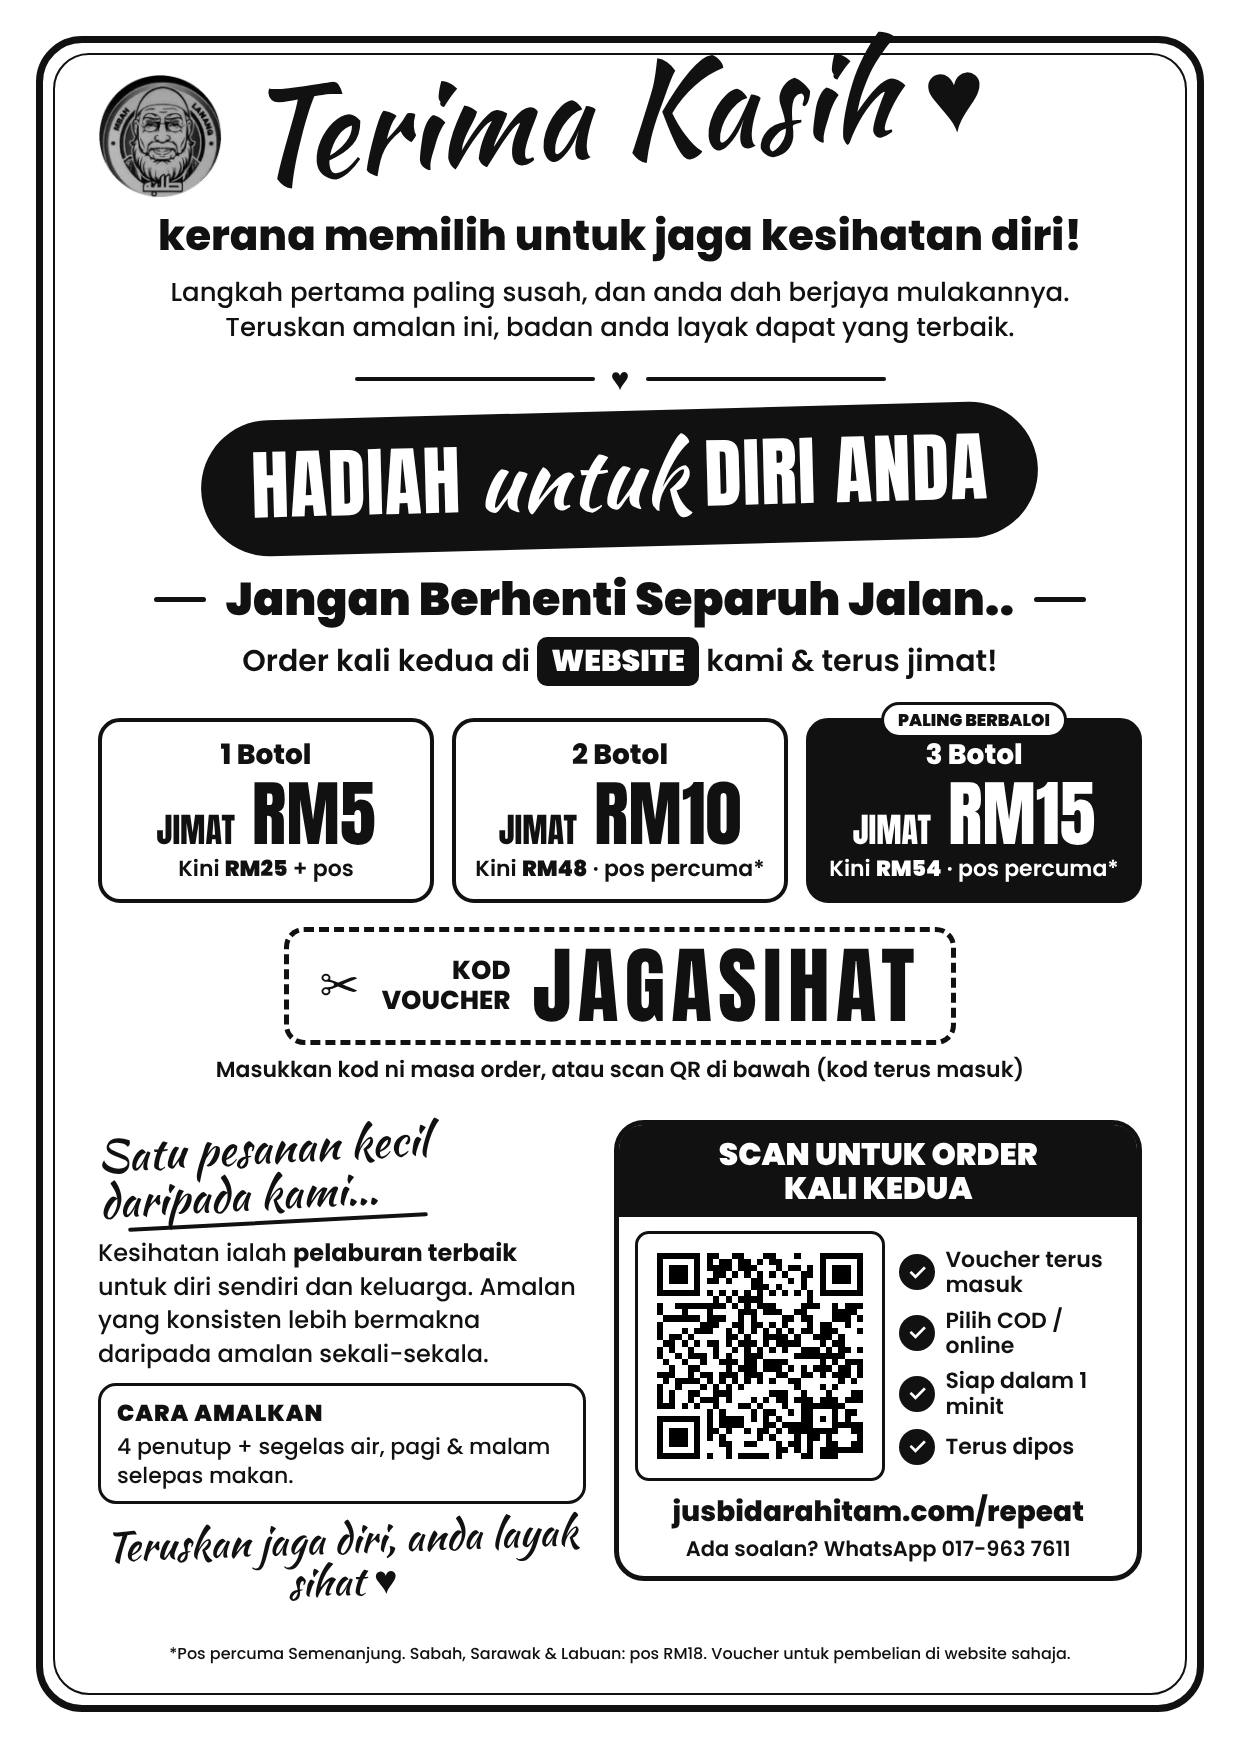
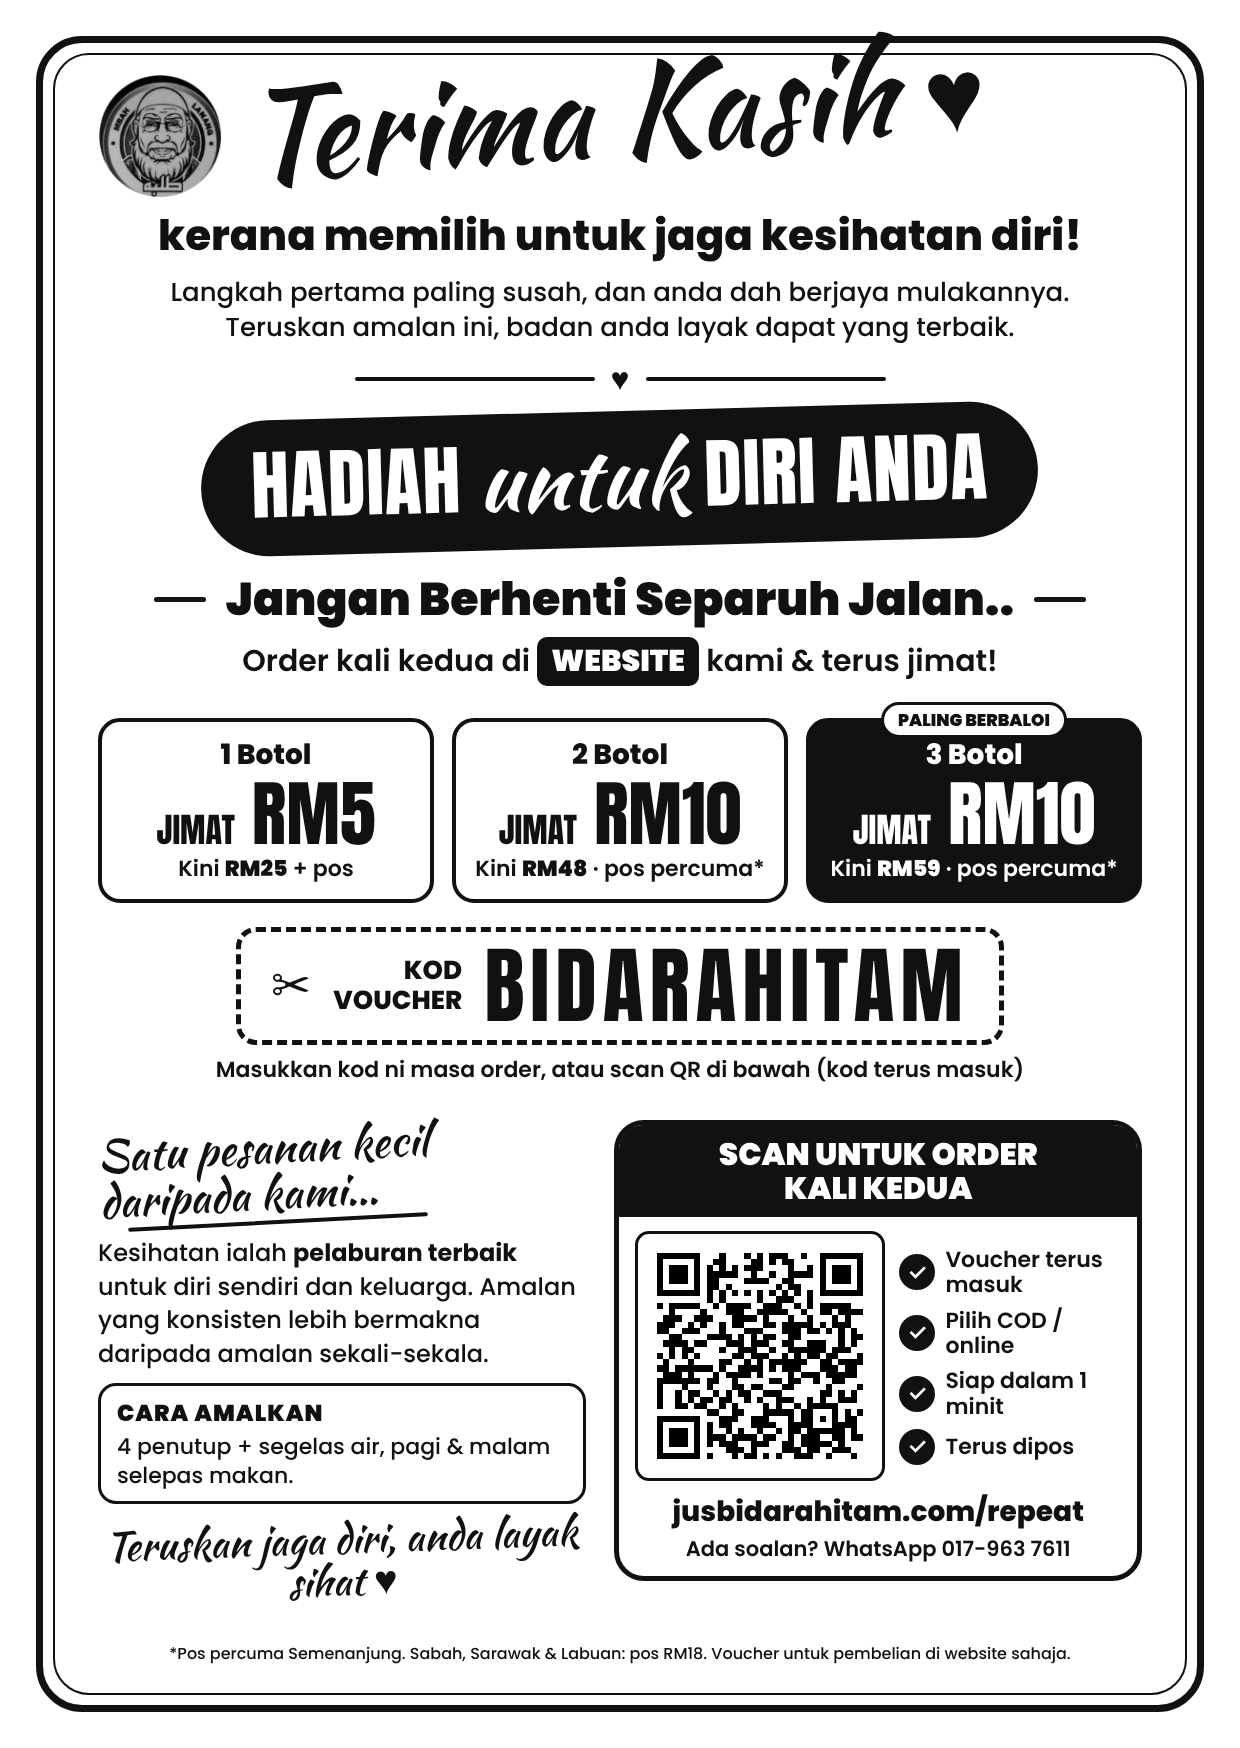
Voucher code BIDARAHITAM; 3-bottle discount RM10 (same as 2 bottles); flyer updated
Claude-Session: https://claude.ai/code/session_01WNDg5CVQaZ8heWyLhLUpEr

Changed region(s): [[0.1839, 0.4943, 0.8887, 0.587], [0.521, 0.7105, 0.7048, 0.8341], [0.8581, 0.4325, 0.8887, 0.4634]]

diff --git a/flyer-repeat/sumber/flyer.html b/flyer-repeat/sumber/flyer.html
@@ -103,10 +103,10 @@
     <div class="tiers">
       <div class="tier"><div class="q">1 Botol</div><div class="off"><small>JIMAT</small> RM5</div><div class="now">Kini <b>RM25</b> + pos</div></div>
       <div class="tier"><div class="q">2 Botol</div><div class="off"><small>JIMAT</small> RM10</div><div class="now">Kini <b>RM48</b> · pos percuma*</div></div>
-      <div class="tier best"><div class="rib">PALING BERBALOI</div><div class="q">3 Botol</div><div class="off"><small>JIMAT</small> RM15</div><div class="now">Kini <b>RM54</b> · pos percuma*</div></div>
+      <div class="tier best"><div class="rib">PALING BERBALOI</div><div class="q">3 Botol</div><div class="off"><small>JIMAT</small> RM10</div><div class="now">Kini <b>RM59</b> · pos percuma*</div></div>
     </div>
 
-    <div class="code"><span class="sc">✂</span><div class="l">KOD<br>VOUCHER</div><div class="k">JAGASIHAT</div></div>
+    <div class="code"><span class="sc">✂</span><div class="l">KOD<br>VOUCHER</div><div class="k">BIDARAHITAM</div></div>
     <div class="codenote">Masukkan kod ni masa order, atau scan QR di bawah (kod terus masuk)</div>
 
     <div class="bottom">

diff --git a/sales-page/repeat/index.html b/sales-page/repeat/index.html
@@ -201,7 +201,7 @@ const form = document.getElementById("order"), $ = id => document.getElementById
 function track(ev, data) { try { if (window.fbq) fbq("track", ev, data || {}); } catch (_) {} }
 const pkg = () => (form.querySelector('input[name="pkg"]:checked') || {}).value || "3";
 const pos = id => EAST.includes($("negeri").value) ? POS_EAST : PAKEJ[id].pos;
-const VOUCHER = "JAGASIHAT", DISKAUN = { 1: 5, 2: 10, 3: 15 };
+const VOUCHER = "BIDARAHITAM", DISKAUN = { 1: 5, 2: 10, 3: 10 };
 const kodSah = () => $("kod").value.trim().toUpperCase().replace(/\s+/g, "") === VOUCHER;
 const disk = id => kodSah() ? DISKAUN[id] : 0;
 const total = id => PAKEJ[id].harga - disk(id) + pos(id);
